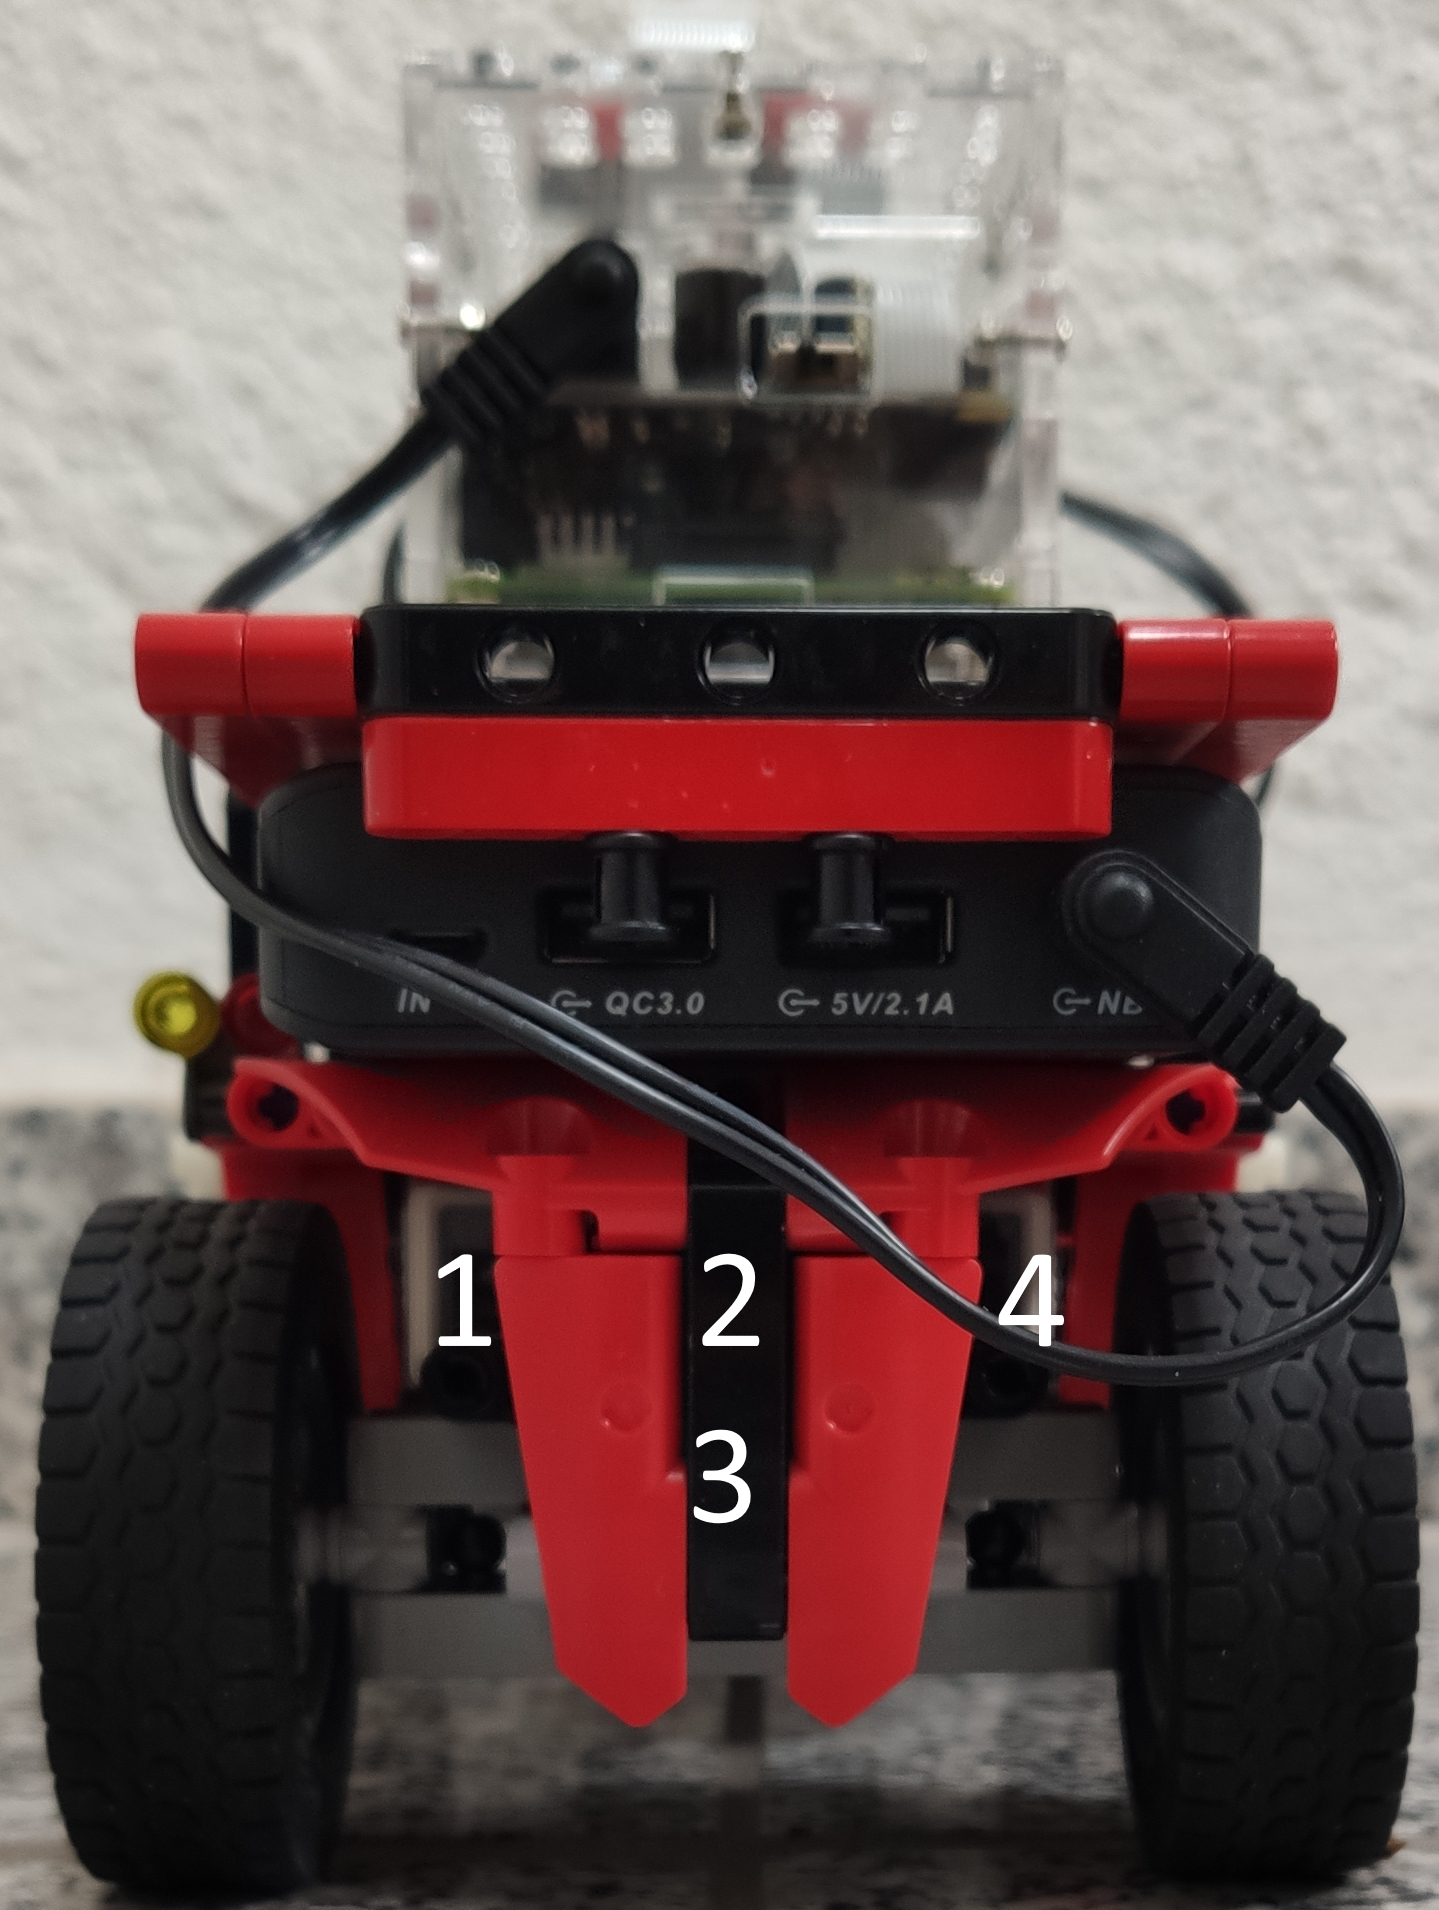
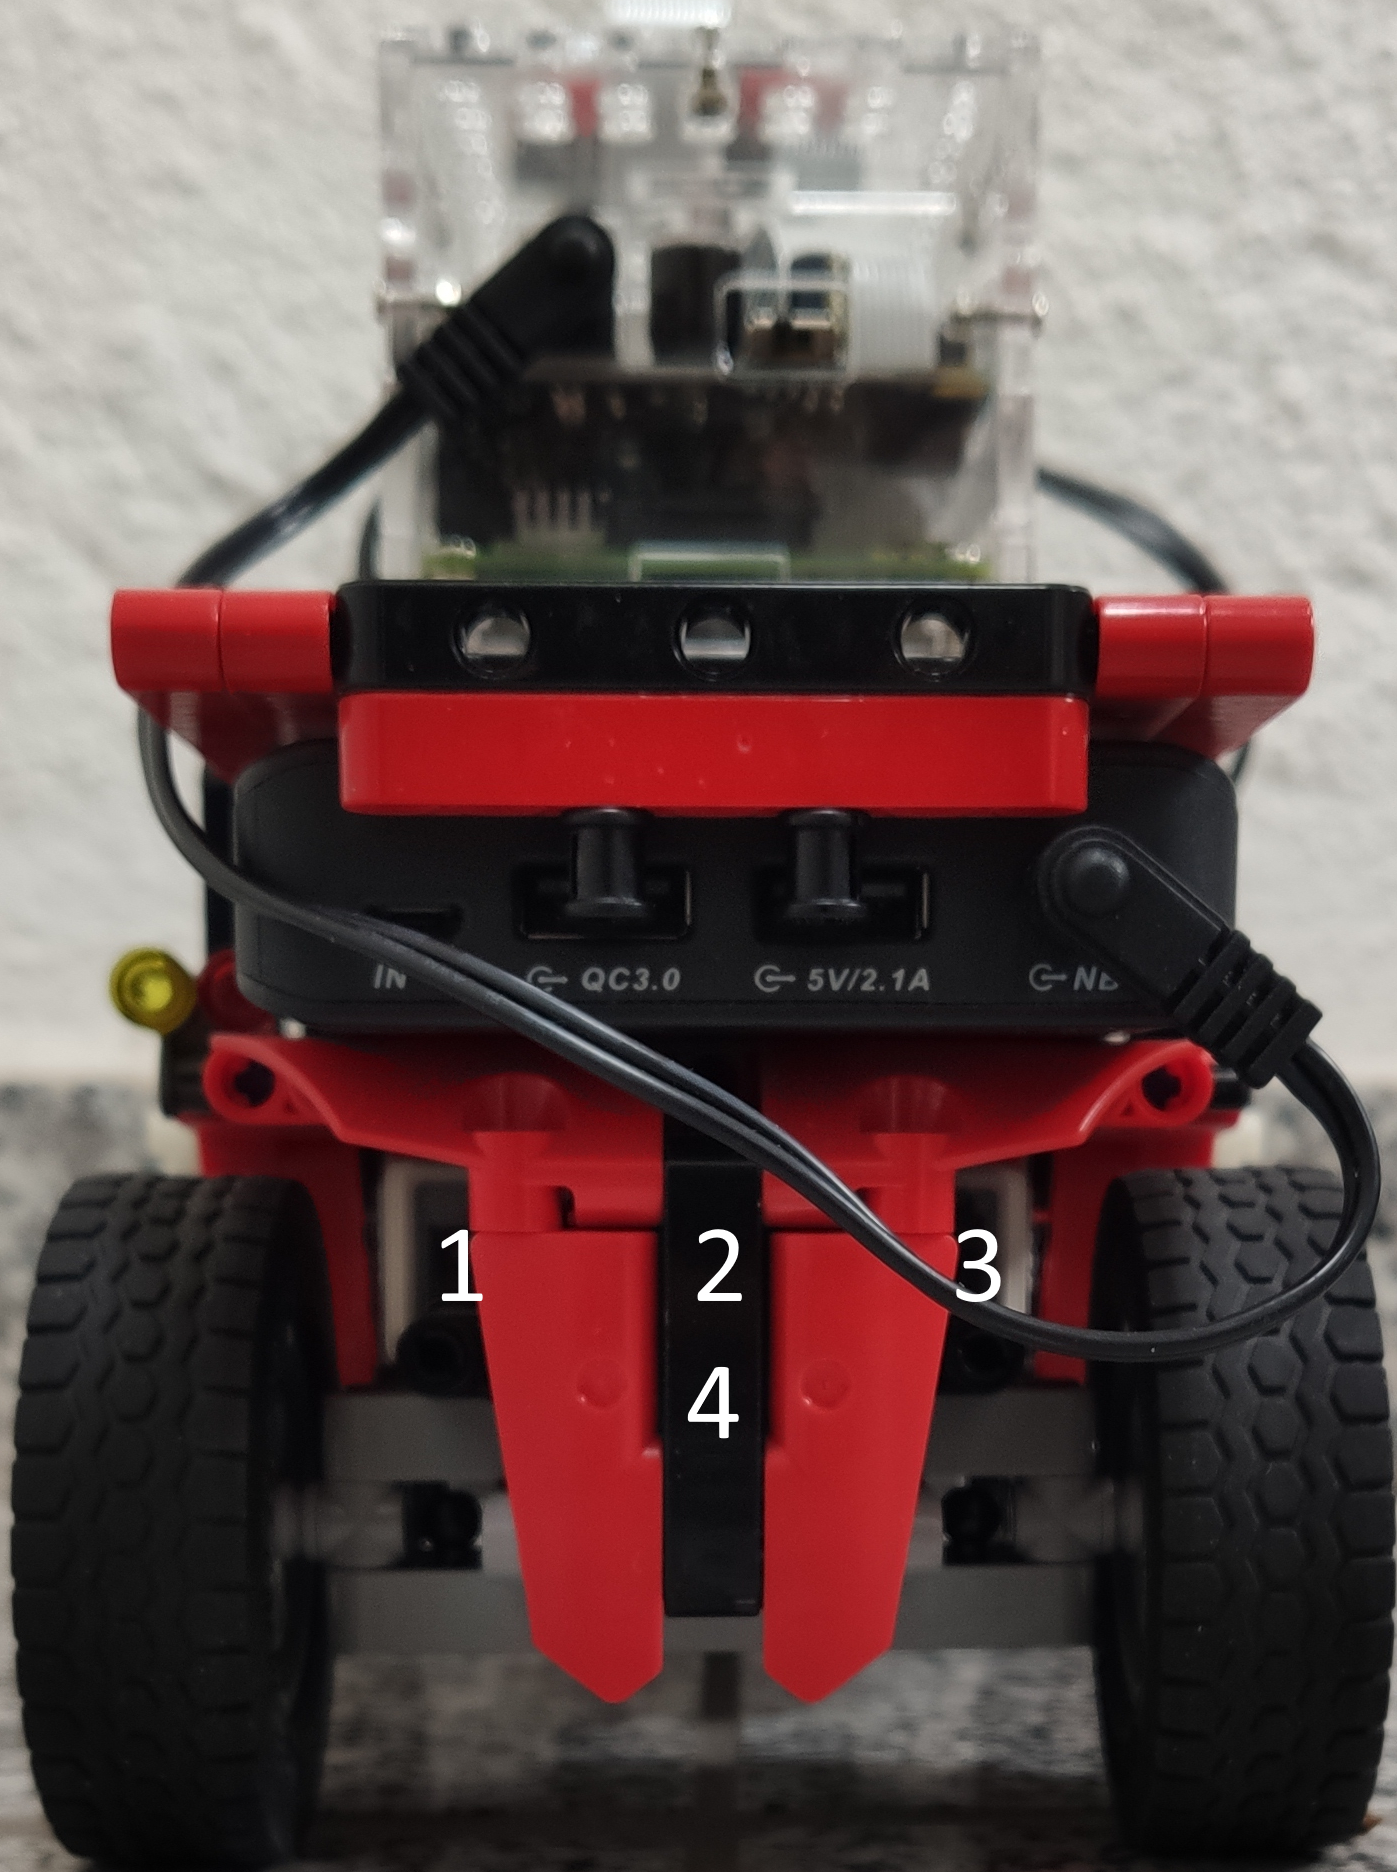
updated readme, updated Motoren-nummeriert, added parking-lot-example

diff --git a/meassure.py b/meassure.py
@@ -283,7 +283,7 @@ def help():
     print("drive1 -> robot drive 1 cm forward")
     print("set_speed -> enter new driving speed")
     print("reset -> resets speed and steering")
-    print("end -> quits programm")
+    print("exit -> quits programm")
     print("help -> prints this help")
 
 

diff --git a/README.md b/README.md
@@ -15,33 +15,119 @@ To control the swarmrobot manually, run `$ ./meassure.py`. Further instructions 
 
 ## Detailed Guide
 
-*`TBD`*
+### simulator.py
+
+Tool to simulate parking process, without moving the swarmrobot. Currently only runable at a swarmrobot.
+This tool is used to learn a lot faster then learning parking with the moving the swarmrobot in the main application.
+
+| Commands      | Function                                  |
+| ------------- | ----------------------------------------- |
+| start         | Starts the simulations (1,000,000 times). |
+| settings      | Opens settings menue.                     |
+| einstellungen | Alias for settings.                       |
+| english       | Changes language to english.              |
+| englisch      | Alias for english.                        |
+| german        | Changes language to german.               |
+| deutsch       | Alias for german.                         |
+| exit          | Quits programm.                           |
+
+The Simulator ast hte same settings as the exhibition.py, look below.
+
+When quitting the simulator, it askes to save the current configuration and q-table.
+
+### exhibition.py (main application)
+
+Application that let the swarmrobot drive and park in a parking lot. A parking lot is an rectangle of read lines and the size of the robot. The line and the parkinglot must touch, take a look at the example below. The application can automaticly follow a black line to the parking lot or it just can demonstrate the functiony. To demonstrate the function, the swarmrobot will drive a few centi meter forward and then start the parking maneuver.
+
+<details>
+  <summary>Parking lot example in bird's eye view (click to expand)</summary>
+  <img src="./parking-lot-example.jpg" alt="Parking lot example" width="480"/>
+</details>
+
+| Commands      | Function                     |
+| ------------- | ---------------------------- |
+| start         | Starts the parking programm. |
+| settings      | Opens settings menue.        |
+| einstellungen | Alias for settings.          |
+| english       | Changes language to english. |
+| englisch      | Alias for english.           |
+| german        | Changes language to german.  |
+| deutsch       | Alias for german.            |
+| exit          | Quits programm.              |
+
+| Settings  | Effect                                                                                   |
+| --------- | ---------------------------------------------------------------------------------------- |
+| direction | Change the parking direction of the swarmrobot, forward or backward.                     |
+| richtung  | Alias for direction.                                                                     |
+| q-table   | Change the q-table or creat a new q-table. Only in administrator mode available.         |
+| q-tabelle | Alias for q-table.                                                                       |
+| action    | Changes the action, explore to learn parking or utilize to park with the filled q-table. |
+
+When quitting the exhibition, it askes to save the current configuration and q-table.
+
+### camera.py
+
+Simple camera tool. Displays current picture, can pause and save the picture.
+
+| Commands | Function                          |
+| -------- | --------------------------------- |
+| [ENTER]  | Pauses the displayed picture.     |
+| resume   | Resumes the displayed picture.    |
+| save     | Saves the current paused picture. |
+| exit     | Quits programm.                   |
+
+### measure.py
+
+Used to control the swarmrobot manual.
+
+| Commands      | Function                                                                      |
+| ------------- | ----------------------------------------------------------------------------- |
+| left1         | Left steer 0.25.                                                              |
+| left2         | Left steer 0.5.                                                               |
+| left3         | Left steer 0.7.                                                               |
+| left4         | Left steer 1.                                                                 |
+| right1        | Right steer 0.25.                                                             |
+| right2        | Right steer 0.5.                                                              |
+| right3        | Right steer 0.75.                                                             |
+| right4        | Right steer 1.                                                                |
+| straight      | Steer straight.                                                               |
+| turn180       | Turns robot about 180 degree.                                                 |
+| turn180onspot | Turns robot about 180 degree and corrects to turning maneuver start position. |
+| drive         | Enter time to drive in seconds to drive.                                      |
+| rotate        | Enter degree to rotate the drive motor to drive.                              |
+| autorotate    | Enter degree to rotate the drive motor to drive in multiple steps.            |
+| drive1        | Robot drive 1 cm forward.                                                     |
+| set_speed     | Enter new driving speed.                                                      |
+| reset         | Resets speed and steering.                                                    |
+| exit          | Quits programm.                                                               |
+| help          | Prints help menue.                                                            |
 
 ## Command-line Argument
 
 ### simulator.py
 
-| Option       | Usage |
-| ------------ | ----- |
-| random       | Alias for random_start |
-| random_start | The Simulator will use a random start position for learning parking |
+| Option       | Usage                                                                |
+| ------------ | -------------------------------------------------------------------- |
+| random       | Alias for random_start.                                              |
+| random_start | The Simulator will use a random start position for learning parking. |
 
 ### exhibition.py
 
-| Option             | Usage |
-| ------------------ | ----- |
-| administrator_mode | More seetings and menue points will be shown. Comant to exit the software will be shown. |
-| administratormode  | Alias for administrator_mode |
+| Option             | Usage                                                                                                                                                                                                                                                         |
+| ------------------ | ------------------------------------------------------------------------------------------------------------------------------------------------------------------------------------------------------------------------------------------------------------- |
+| administrator_mode | More seetings and menue points will be shown. Comant to exit the software will be shown.                                                                                                                                                                      |
+| administratormode  | Alias for administrator_mode.                                                                                                                                                                                                                                 |
 | park_lot_detection | The swarmrobot will detect and follow a black line or parkour until it meets an intersection with a red parking lot. The swarmrobot tryes to park into the parking lot. After about 10 seconds, the robot will follow the black for about 2 seconds and turn. |
-| parklotdetection   | Alias for park_lot_detection
-| preview_mode       | Display needed! More details and a picture of the camera view will be displayed. |
-| previewmode        | Alias for preview_mode |
-| debug_mode         | Display needed! Additional information and pictures will be displayed. Warning the debug_mode could cause crahes! |
-| debugmode          | Alias for debug_mode |
+| parklotdetection   | Alias for park_lot_detection.                                                                                                                                                                                                                                 |
+| preview_mode       | Display needed! More details and a picture of the camera view will be displayed.                                                                                                                                                                              |
+| previewmode        | Alias for preview_mode.                                                                                                                                                                                                                                       |
+| debug_mode         | Display needed! Additional information and pictures will be displayed. Warning the debug_mode could cause crahes!                                                                                                                                             |
+| debugmode          | Alias for debug_mode.                                                                                                                                                                                                                                         |
 
 ## Requierements
 
 Hardware:
+
 - Raspberry Pi 3b
 - BrickPi3
 - 4 Lego Motors
@@ -50,16 +136,17 @@ Hardware:
 - Optional: Display with 1280x720 or higher for debug- and preview-mode
 
 Software:
+
 - Raspbian
 - Python 3.5.3 or higher
 - Python packages (see `requierements.txt`):
-    - numpy 1.13.3
-    - scikit-build  0.11.1
-    - opencv-python 4.4.0.42
-    - pyzbar 0.1.9
-    - scipy 0.18.1
-    - scikit-image 0.15.0
-    - spidev 3.4
+  - numpy 1.13.3
+  - scikit-build 0.11.1
+  - opencv-python 4.4.0.42
+  - pyzbar 0.1.9
+  - scipy 0.18.1
+  - scikit-image 0.15.0
+  - spidev 3.4
 - Git version compatible with github.com is recommended
 - Recommended terminal size: 115 x 25 or higher
 
@@ -69,10 +156,10 @@ Software:
 
 | Motor function  | Port | Number in picture |
 | --------------- | ---- | ----------------- |
-| Fork lift motor | A    | 3 |
-| Fork tilt motor | B    | 1 |
-| Drive motor     | C    | 4 |
-| Steer motor     | D    | 2 |
+| Fork lift motor | A    | 3                 |
+| Fork tilt motor | B    | 1                 |
+| Drive motor     | C    | 4                 |
+| Steer motor     | D    | 2                 |
 
 <details>
   <summary>Numbered motors (klick to expand)</summary>
@@ -88,10 +175,11 @@ Example with default values:
 `{"language": "english", "qtable_name": "default", "alpha": 1.0, "y": 0.95, "direction": "FORWARD", "action": "explore", "color": "True"}`
 
 Explanation:
+
 - language describes the current menue language. This can be "english" or "german".
 - qtable_name describes the file name of the q-table without file extension, of the file containing the current q-table.
-- alpha describes the alpha exploration rate. This can be a float value betwenn 0.0 and 1.0.
-- y describes the y exploration rate. This can be a float value betwenn 0.0 and 1.0.
+- alpha describes the alpha exploration rate, howm much new information is valued. This can be a float value betwenn 0.0 and 1.0. A smaller value means lower value of a new information, a higher value means lower value of new information.
+- y describes the gamma exploration rate. This can be a float value betwenn 0.0 and 1.0. A smaller value means short term reward will be more focused, a higher value means long term reward will be more focused.
 - direction describes the parking direction. This can be "FORWARD" or "BACKWARD" and says if the swarmrobot parks forward into a parking lot or backward.
 - action describes if the swarmrobot learns parking or uses it's q-table to park. This value can be "explore" to learn or "utilize" use the q-table.
 - color is a boolean value, ans says if the output is colored or not. This value can be "True" or "False".
